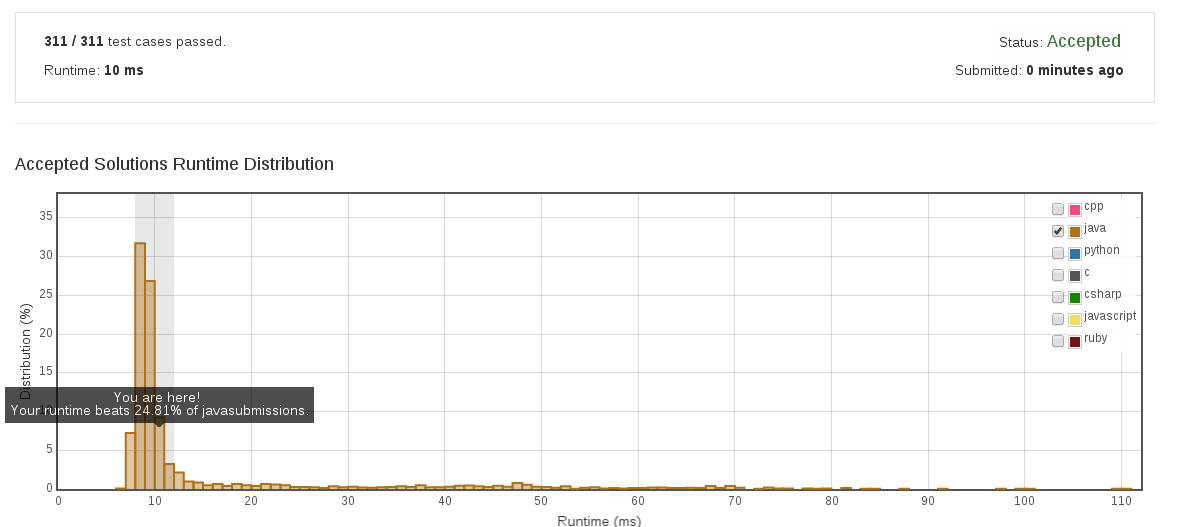
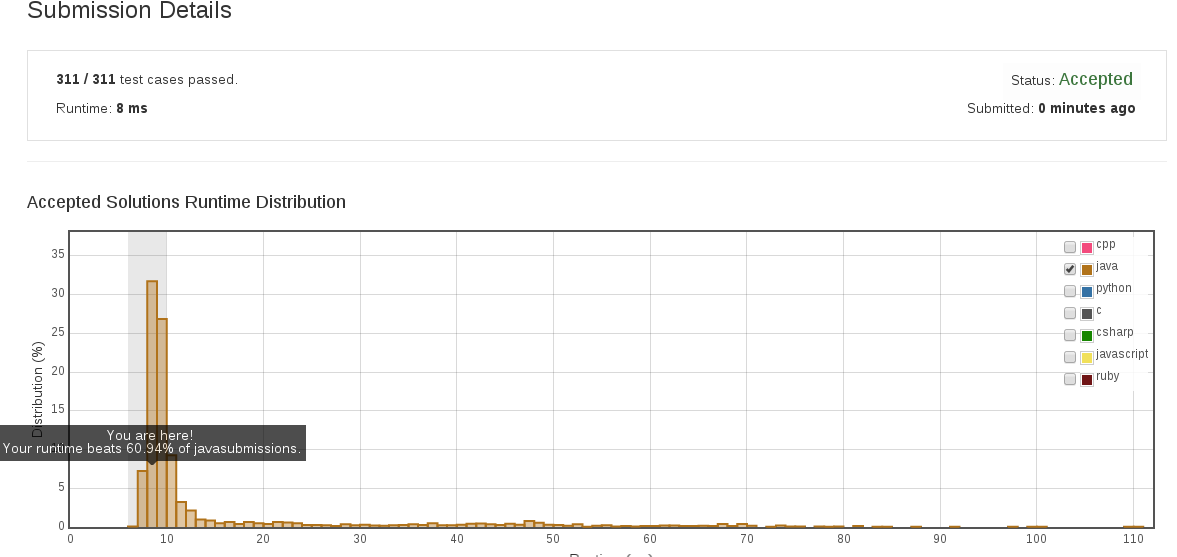
update 015, add 018

diff --git a/leetcode018_4Sum/LeetCode_018_4Sum.java b/leetcode018_4Sum/LeetCode_018_4Sum.java
@@ -1,0 +1,54 @@
+import org.junit.Test;
+
+import java.util.ArrayList;
+import java.util.Arrays;
+import java.util.List;
+
+public class LeetCode_018_4Sum
+{
+    public List<List<Integer>> fourSum(int[] nums, int target)
+    {
+        Arrays.sort(nums);
+        List<List<Integer>> lists = new ArrayList<>();
+        for(int i = 0; i < nums.length - 3; i++)
+        {
+            if(i == 0 || nums[i] != nums[i - 1])
+            {
+                for(int j = i+1; j < nums.length-2; j++)
+                {
+                    if(j == i+1 || nums[j] != nums[j-1])
+                    {
+                        int low = j+1;
+                        int high = nums.length-1;
+                        int sum = target-nums[i] -nums[j];
+                        while(low < high)
+                        {
+                            if(nums[low]+nums[high] == sum)
+                            {
+                                lists.add(Arrays.asList(nums[i],nums[j],nums[low],nums[high]));
+                                while(low < high && nums[low] == nums[low+1]) low++;
+                                while(low < high && nums[high] == nums[high-1]) high--;
+                                low++;high--;
+                            }
+                            else if (nums[low] + nums[high] < sum) low++;
+                            else high--;
+                        }
+                    }
+                }
+            }
+        }
+        return lists;
+    }
+
+    @Test
+    public void testFourSum()
+    {
+        int[] test = {1, 0, -1, 0, -2, 2};
+
+        List<List<Integer>> lists = fourSum(test, 0);
+        lists.forEach(e1 -> {
+            e1.forEach(e2 -> System.out.print(e2 + " "));
+            System.out.println();
+        });
+    }
+}

diff --git a/leetcode015_3Sum/LeetCode_015_3Sum_Update.java b/leetcode015_3Sum/LeetCode_015_3Sum_Update.java
@@ -9,25 +9,27 @@ public class LeetCode_015_3Sum_Update
         Arrays.sort(nums);
         List<List<Integer>> lists = new ArrayList<>();
 
-        for(int i = 0; i < nums.length-2 && nums[i] <= 0; i++)
+        for(int i = 0; i < nums.length-2; i++)
         {
-
-            for(int j = nums.length - 1; j > i && nums[j] >= 0; j--)
+            if(i == 0 || nums[i] != nums[i-1])
             {
-                int tmp = nums[i] + nums[j];
-                int index = Arrays.binarySearch(nums, i + 1, j, -tmp);
-                if(index >= 0)
+                int low = i+1;
+                int high = nums.length-1;
+                int sum = -nums[i];
+                while(low < high)
                 {
-                    lists.add(Arrays.asList(nums[i], -tmp, nums[j]));
+                    if(nums[low]+ nums[high] == sum)
+                    {
+                        lists.add(Arrays.asList(nums[i],nums[low],nums[high]));
+                        while(low < high && nums[low] == nums[low+1]) low++;
+                        while(low < high && nums[high] == nums[high-1]) high--;
+                        low++;high--;
+                    }
+                    else if(nums[low] + nums[high] < sum)
+                        low++;
+                    else
+                        high--;
                 }
-                while(i < j && nums[j] == nums[j - 1])
-                {
-                    j--;
-                }
-            }
-            while(i+1 < nums.length && nums[i] == nums[i + 1])
-            {
-                i++;
             }
         }
         return lists;

diff --git a/leetcode015_3Sum/leetcode_015_3Sum.md b/leetcode015_3Sum/leetcode_015_3Sum.md
@@ -43,29 +43,38 @@ public List<List<Integer>> threeSum(int[] nums)
 #### 结果细节（图）：
 ![image](https://github.com/jnuyanfa/YanFa-LeetCode-with-JAVA/blob/master/leetcode015_3Sum/img/1.png)
 # *更新：*
-#### 思路
-利用两个指针，一个（i）指向数组头，另一个（j）指向数组尾部。i指针作外循环，终止条件为`i < nums.length-2 && nums[i] <= 0;`；j指针作内循环，终止条件为`j > i && nums[j] >= 0`。然后在两个指针区间内找第三个数，即用Arrays类的binarySearch方法进行二分查找，找到就将这三个数插入到目标集合中。如果有重复元素，则跳过。
 #### 代码
 ```java
 public List<List<Integer>> threeSum(int[] nums)
 {
     Arrays.sort(nums);
     List<List<Integer>> lists = new ArrayList<>();
-    for(int i = 0; nums[i] <= 0; i++)
+
+    for(int i = 0; i < nums.length-2; i++)
     {
-        for(int j = nums.length - 1; j > i && nums[j] >= 0; j--)
+        if(i == 0 || nums[i] != nums[i-1])
         {
-            int tmp = nums[i] + nums[j];
-            int index = Arrays.binarySearch(nums, i + 1, j, -tmp);
-            if(index >= 0)
-                lists.add(Arrays.asList(nums[i], -tmp, nums[j]));
-            while(i < j && nums[j] == nums[j - 1])
-                j--;
+            int low = i+1;
+            int high = nums.length-1;
+            int sum = -nums[i];
+            while(low < high)
+            {
+                if(nums[low]+ nums[high] == sum)
+                {
+                    lists.add(Arrays.asList(nums[i],nums[low],nums[high]));
+                    while(low < high && nums[low] == nums[low+1]) low++;
+                    while(low < high && nums[high] == nums[high-1]) high--;
+                    low++;high--;
+                }
+                else if(nums[low] + nums[high] < sum)
+                    low++;
+                else
+                    high--;
+            }
         }
-        while(i+1 < nums.length && nums[i] == nums[i + 1])
-            i++;
     }
     return lists;
+
 }
 ```
 ####细节图

diff --git a/leetcode018_4Sum/leetcode_018_4Sum.md b/leetcode018_4Sum/leetcode_018_4Sum.md
@@ -1,0 +1,54 @@
+# *题目*
+**18. 4 Sum**  
+Given an array S of n integers, are there elements a, b, c, and d in S such that a + b + c + d = target? Find all unique quadruplets in the array which gives the sum of target.  
+*Note:*  
+- Elements in a quadruplet (a,b,c,d) must be in non-descending order. (ie, a ≤ b ≤ c ≤ d)  
+- The solution set must not contain duplicate quadruplets.  
+```
+For example, given array S = {1 0 -1 0 -2 2}, and target = 0.    
+A solution set is:    
+(-1,  0, 0, 1)    
+(-2, -1, 1, 2)    
+(-2,  0, 0, 2)
+```
+#### 思路：
+根据3Sum进行改进。
+
+#### 代码：
+```java
+public List<List<Integer>> fourSum(int[] nums, int target)
+{
+    Arrays.sort(nums);
+    List<List<Integer>> lists = new ArrayList<>();
+    for(int i = 0; i < nums.length - 3; i++)
+    {
+        if(i == 0 || nums[i] != nums[i - 1])
+        {
+            for(int j = i+1; j < nums.length-2; j++)
+            {
+                if(j == i+1 || nums[j] != nums[j-1])
+                {
+                    int low = j+1;
+                    int high = nums.length-1;
+                    int sum = target-nums[i] -nums[j];
+                    while(low < high)
+                    {
+                        if(nums[low]+nums[high] == sum)
+                        {
+                            lists.add(Arrays.asList(nums[i],nums[j],nums[low],nums[high]));
+                            while(low < high && nums[low] == nums[low+1]) low++;
+                            while(low < high && nums[high] == nums[high-1]) high--;
+                            low++;high--;
+                        }
+                        else if (nums[low] + nums[high] < sum) low++;
+                        else high--;
+                    }
+                }
+            }
+        }
+    }
+    return lists;
+}
+```
+#### 结果细节（图）：
+![image](https://github.com/jnuyanfa/YanFa-LeetCode-with-JAVA/blob/master/leetcode018_4Sum/img/1.png)
